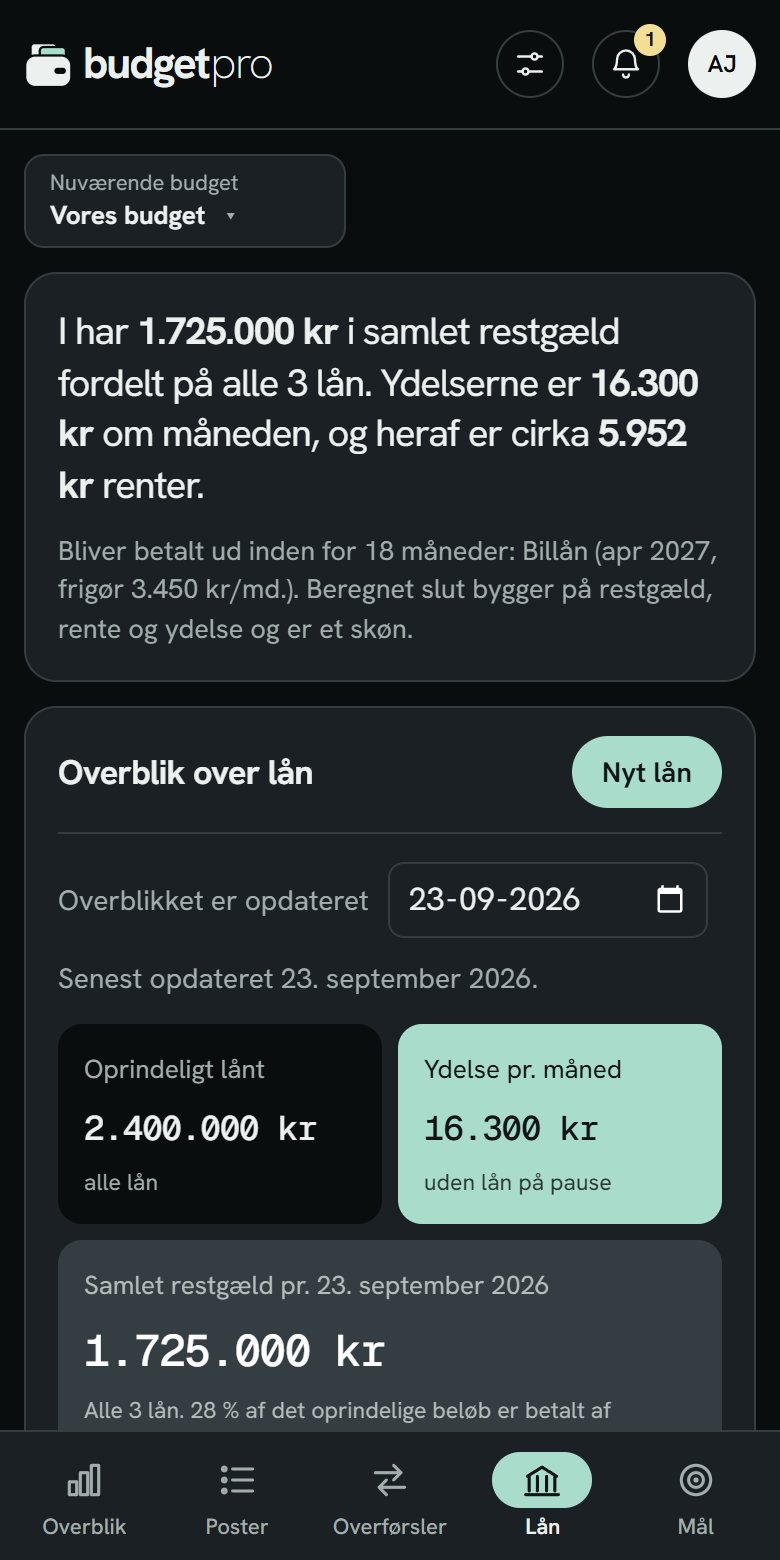
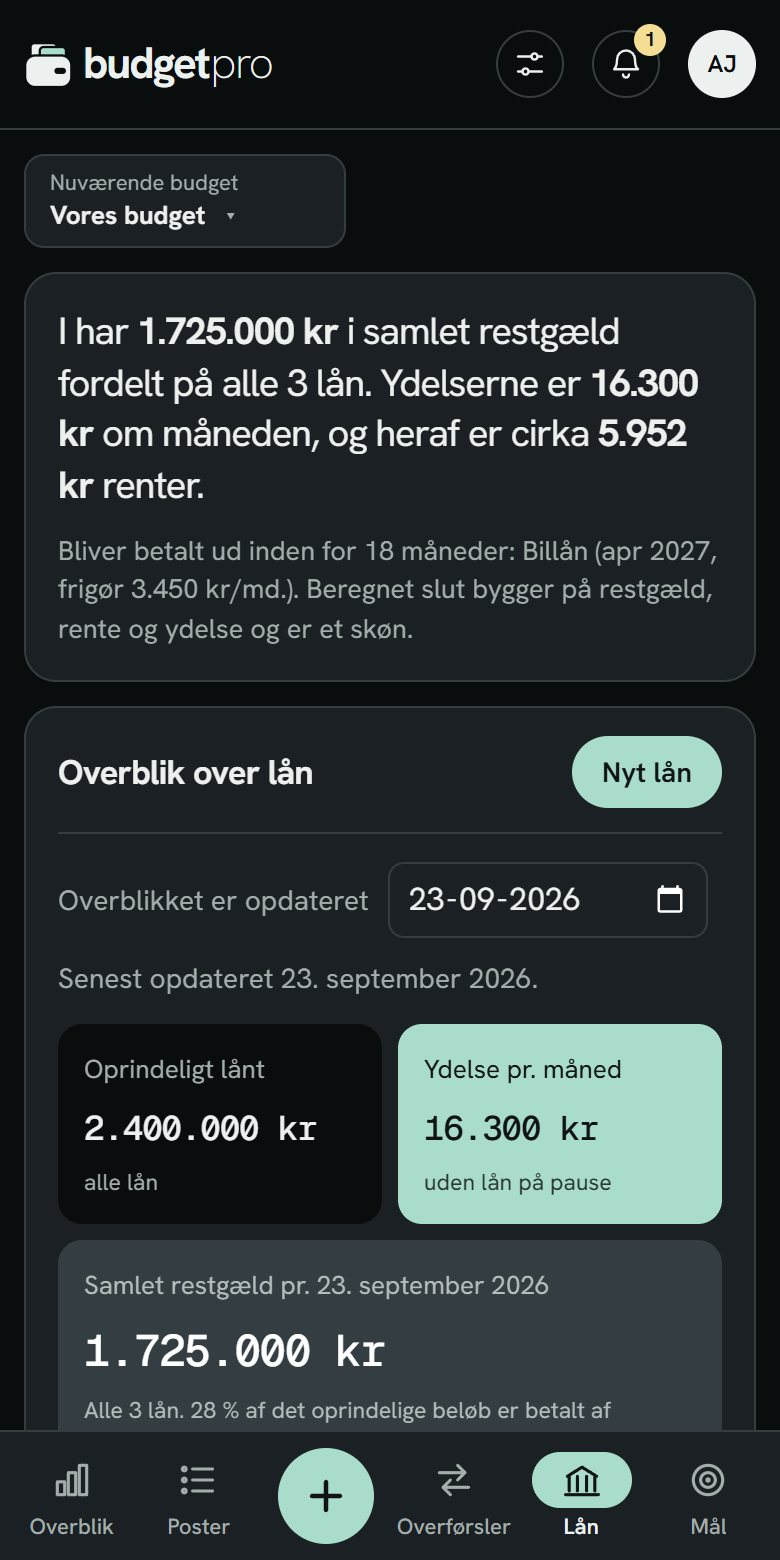
Phones: + in the bottom bar, filter chips, calm folded category rows
Ideas from Vinted: the round + sits in the middle of the bottom bar and opens a new post on every
page, the post filters are a sideways row of chips (a set filter is dark), and a folded category
shows only name, count and sum. Shots remade; the films wait until the changes are done.

Changed region(s): [[0.2154, 0.9231, 0.8308, 1.0], [0.0308, 0.9231, 0.1538, 0.9846], [0.8615, 0.9231, 0.9231, 0.9846]]

diff --git a/public/budgetr-app/index.html b/public/budgetr-app/index.html
@@ -352,6 +352,7 @@ tr.paused td{color:var(--ink3)}
 .split{display:flex;gap:10px;align-items:center;flex-wrap:wrap;font-size:14px;color:var(--ink2)}
 .split input[type=number]{width:70px}
 .filters{display:flex;flex-wrap:wrap;gap:8px;margin-bottom:12px}
+.fchips{display:contents}
 .filters select,.filters input{border:1px solid var(--rule);background:var(--card);border-radius:8px;padding:6px 10px;font-size:14px}
 .filters input{min-width:180px}
 /* Search on Poster: matching posts drop down under the field; picking one jumps to its row */
@@ -1154,7 +1155,7 @@ dialog h2,.sethead h2{font-weight:700}
   .navrow .tools{padding:12px 0 0!important}
   .setbtn{display:flex!important}
   .appbar .status{display:none}
-  .mnav{display:grid;grid-template-columns:repeat(5,minmax(0,1fr));position:fixed;left:0;right:0;bottom:0;z-index:40;background:var(--card);border-top:1px solid var(--rule);padding:4px 4px calc(4px + env(safe-area-inset-bottom,0px))}
+  .mnav{display:grid;grid-template-columns:repeat(2,minmax(0,1fr)) 64px repeat(3,minmax(0,1fr));position:fixed;left:0;right:0;bottom:0;z-index:40;background:var(--card);border-top:1px solid var(--rule);padding:4px 4px calc(4px + env(safe-area-inset-bottom,0px))}
   .mnav button{display:flex;flex-direction:column;align-items:center;justify-content:center;gap:3px;min-height:56px;padding:4px 0!important;border:0!important;background:transparent!important;color:var(--ink2)!important;font:500 11px/1.2 var(--font)!important;border-radius:12px!important;-webkit-tap-highlight-color:transparent}
   .mnav svg{box-sizing:content-box;width:22px;height:22px;padding:3px 14px;border-radius:14px;fill:none;stroke:currentColor;stroke-width:1.7;stroke-linecap:round;stroke-linejoin:round;transition:background .15s}
   .mnav button[aria-selected="true"]{color:var(--ink)!important;font-weight:600!important}
@@ -1162,7 +1163,11 @@ dialog h2,.sethead h2{font-weight:700}
   .mnav span{max-width:100%;overflow:hidden;text-overflow:ellipsis;white-space:nowrap}
   .fab{display:flex;align-items:center;justify-content:center;position:fixed;right:16px;bottom:calc(76px + env(safe-area-inset-bottom,0px));z-index:41;width:56px;height:56px;padding:0!important;border:0!important;border-radius:28px!important;background:var(--btn)!important;color:var(--btn-ink)!important;box-shadow:0 6px 18px rgba(16, 20, 21,.28)}
   .fab svg{width:26px;height:26px;fill:none;stroke:currentColor;stroke-width:2.2;stroke-linecap:round}
-  body:not([data-page="budget"]):not([data-page="poster"]) .fab,body[data-nobudget] .fab,body[data-nobudget] .mnav{display:none}
+  body[data-nobudget] .mnav{display:none}
+  /* The + in the middle of the bottom bar (like Vinted's Sælg): a round blæk button that opens a new post on every page. */
+  .mnav .mnew{gap:0}
+  .mnav .mnew svg{width:24px;height:24px;padding:12px;border-radius:50%;background:var(--btn);color:var(--btn-ink);stroke-width:2.2}
+  .mnav .mnew:active svg{transform:scale(.94)}
   .toast{bottom:calc(84px + env(safe-area-inset-bottom,0px))}
   /* Overblik: the card replaces the sentence; the 12-month graph and long hints stay on bigger screens. */
   .msum{display:block;margin:14px 0 4px;padding:16px;border-radius:14px;background:var(--card);border:1px solid var(--rule)}
@@ -1276,7 +1281,13 @@ dialog h2,.sethead h2{font-weight:700}
   .person .kv.pend{display:flex;justify-content:space-between;gap:12px;margin-top:10px;padding-top:10px;border-top:1px solid var(--rule)}
   .pmore{display:block;width:100%;margin-top:12px;min-height:42px;background:var(--card)!important;font-size:14px!important}
   /* Poster: search across, the three filters on one row, each category as its own block with a grey head. */
-  .filters{display:grid;grid-template-columns:repeat(3,minmax(0,1fr));gap:8px}
+  .filters{display:grid;grid-template-columns:minmax(0,1fr);gap:8px}
+  /* The filters are chips in one row that scrolls sideways, each as wide as its text (like Vinted's filter row). */
+  .filters .fchips{display:flex;gap:8px;overflow-x:auto;scrollbar-width:none;margin:0 -16px;padding:0 16px}
+  .filters .fchips::-webkit-scrollbar{display:none}
+  .filters .fchips select{flex:0 0 auto;width:auto!important;field-sizing:content;border-radius:999px!important;padding:8px 14px!important;font:500 14px var(--font)!important}
+  tr.cat:has(.pfold[aria-expanded="false"]) :is(.addp,.catdots),tr.grp:has(.pfold[aria-expanded="false"]) .addp,tr.grp .catbtn{display:none!important}
+  .filters .fchips select.on{background:var(--btn)!important;color:var(--btn-ink)!important;border-color:var(--btn)!important}
   .filters .qbox{grid-column:1/-1;order:-1}
   .filters .ptools{grid-column:1/-1}
   .filters select{min-width:0;width:100%;padding:8px 6px;text-overflow:ellipsis}
@@ -1382,10 +1393,10 @@ dialog h2,.sethead h2{font-weight:700}
   <div class="tourcard" id="tourCard" role="dialog" aria-modal="true" aria-labelledby="tourTitle" tabindex="-1"><h2 id="tourTitle"></h2><p id="tourTxt"></p>
     <div class="tourfoot"><span class="tourn" id="tourN"></span><button type="button" id="tourBack">Tilbage</button><button type="button" class="primary" id="tourNext">Næste</button></div></div></div>
 <!-- Phones: the pages as an app bar at the bottom, and a round button for a new post. -->
-<button type="button" class="fab" id="btnNewM" aria-label="Ny budgetpost"><svg viewBox="0 0 24 24" aria-hidden="true"><path d="M12 5v14M5 12h14"/></svg></button>
 <nav class="mnav" aria-label="Sider">
   <button type="button" data-page="budget" aria-selected="true"><svg viewBox="0 0 24 24" aria-hidden="true"><path d="M4 13h4v7H4zM10 8h4v12h-4zM16 4h4v16h-4z"/></svg><span>Overblik</span></button>
   <button type="button" data-page="poster" aria-selected="false"><svg viewBox="0 0 24 24" aria-hidden="true"><path d="M9 6h11M9 12h11M9 18h11"/><circle cx="4.5" cy="6" r="1"/><circle cx="4.5" cy="12" r="1"/><circle cx="4.5" cy="18" r="1"/></svg><span>Poster</span></button>
+  <button type="button" class="mnew" id="btnNewM" aria-label="Ny budgetpost" title="Ny budgetpost"><svg viewBox="0 0 24 24" aria-hidden="true"><path d="M12 5v14M5 12h14"/></svg></button>
   <button type="button" data-page="overf" aria-selected="false"><svg viewBox="0 0 24 24" aria-hidden="true"><path d="M4 8h14M14 4l4 4-4 4M20 16H6M10 12l-4 4 4 4"/></svg><span>Overførsler</span></button>
   <button type="button" data-page="laan" aria-selected="false"><svg viewBox="0 0 24 24" aria-hidden="true"><path d="M4 10 12 5l8 5M5 10v8M19 10v8M9.5 10v8M14.5 10v8M3 20h18"/></svg><span>Lån</span></button>
   <button type="button" data-page="maal" aria-selected="false"><svg viewBox="0 0 24 24" aria-hidden="true"><circle cx="12" cy="12" r="8"/><circle cx="12" cy="12" r="4"/><circle cx="12" cy="12" r=".6"/></svg><span>Mål</span></button>
@@ -2142,10 +2153,10 @@ function render(){
   // poster (own tab). hTop is the overview so far; the posts page starts with the scenario bar only.
   const hTop=h; h=scBarHtml(true)+startInfo(true);
   h+=`<section><div class="sechead"><h2>Poster</h2><span class="hint">Beløb omregnet til ${per()}. Overførsler mellem konti står under <button type="button" class="ghost" data-goto="overf" style="padding:0;color:var(--pine);text-decoration:underline">Faste overførsler</button>.</span></div>
-  <div class="filters">
+  <div class="filters"><div class="fchips">
     <select id="flType" aria-label="Filtrér type"><option value="alle">Alle typer</option><option value="udgift">Udgifter</option><option value="indtaegt">Indtægter</option><option value="tjek">Skal tjekkes</option><option value="steget">Steget mindst ${devPct()} %</option></select>
     <select id="flAcct" aria-label="Filtrér konto"><option value="alle">Alle konti</option>${S.accounts.map(a=>`<option value="${a.id}">${esc(a.name)}</option>`).join('')}<option value="">Ikke placeret</option></select>
-    <select id="flPayer" aria-label="Filtrér betaler"><option value="alle">Alle betalere</option><option value="${FAELLES}">Fælles</option>${S.persons.map(p=>`<option value="${p.id}">${esc(p.name)}</option>`).join('')}</select>
+    <select id="flPayer" aria-label="Filtrér betaler"><option value="alle">Alle betalere</option><option value="${FAELLES}">Fælles</option>${S.persons.map(p=>`<option value="${p.id}">${esc(p.name)}</option>`).join('')}</select></div>
     <div class="qbox"><input id="flQ" type="search" placeholder="Søg og hop til en post" aria-label="Søg i posterne" role="combobox" aria-autocomplete="list" aria-expanded="false" aria-controls="flQList" autocomplete="off" value="${esc(F.q)}"><div class="qlist" id="flQList" role="listbox" aria-label="Poster der matcher" hidden></div></div>
     <div class="ptools"><button type="button" class="tbtn" id="btnFoldPosts">${foldAllHtml()}</button><button type="button" class="tbtn" id="btnCats" title="Opret, omdøb, sortér og slet udgiftskategorier"><svg viewBox="0 0 16 16" aria-hidden="true"><path d="M2.5 2.5h5.2l5.8 5.8-5.2 5.2-5.8-5.8z"/><circle cx="5.4" cy="5.4" r="1.1"/></svg><span>Rediger kategorier</span></button></div>
   </div>
@@ -2912,7 +2923,7 @@ $('btnHelpClose').onclick=()=>$('dlgHelp').close();
   addEventListener('popstate',()=>{if(skip){skip--;return}const d=[...document.querySelectorAll('dialog[open]')].filter(x=>x._hbBack).pop();if(d){d._hbBack=false;d.close()}})})();
 /* ---------- Rundtur: where things are, in six stops ---------- */
 // Started from the profile menu. Each stop points at what the user sees: the top tabs and buttons on a wide screen,
-// the bottom bar, the round + and the gear on a phone. A stop whose button isn't shown is skipped.
+// the bottom bar, the round + in it and the gear on a phone. A stop whose button isn't shown is skipped.
 const TOUR=[
   {el:'.tabs,.mnav',t:'Siderne',x:'Overblik viser hele budgettet. Under Budgetposter retter du indtægter og udgifter, og Lån, Overførsler og Mål har hver deres side.'},
   {el:'#btnNew,#btnNewM',t:'Ny budgetpost',x:'Her lægger du en ny indtægt eller udgift ind. Du kan også trykke på en post for at rette den.'},
@@ -3011,8 +3022,10 @@ function qMatches(q){q=q.trim().toLowerCase();if(!q)return [];
   const st=e=>(e.desc||'').toLowerCase().startsWith(q)?0:1;
   return cur().filter(e=>e.type!=='overfoersel'&&!e.removed&&((e.desc||'').toLowerCase().includes(q)||(e.key||'').toLowerCase().includes(q)))
     .sort((a,b)=>((a.type==='udgift'?0:1)-(b.type==='udgift'?0:1))||(st(a)-st(b))||(a.desc||'').localeCompare(b.desc||'','da')).slice(0,12)}
+// A filter that is set shows as a dark chip on phones.
+function flMark(){['flType','flAcct','flPayer'].forEach(id=>{const s=$(id);if(s)s.classList.toggle('on',s.value!=='alle')})}
 function jumpPost(id){const e=cur().find(x=>x.id===id);if(!e||!$('tbody'))return;
-  F.type=F.account=F.payer='alle';F.q='';$('flType').value=F.type;$('flAcct').value=F.account;$('flPayer').value=F.payer;$('flQ').value='';
+  F.type=F.account=F.payer='alle';F.q='';$('flType').value=F.type;$('flAcct').value=F.account;$('flPayer').value=F.payer;$('flQ').value='';flMark();
   PFOLD['g:'+e.type]=false;if(e.type==='udgift')PFOLD['c:'+postCat(e)]=false;savePFold();
   $('tbody').innerHTML=rowsHtml();if($('btnFoldPosts'))$('btnFoldPosts').innerHTML=foldAllHtml();
   const tr=$('tbody').querySelector(`tr.row[data-id="${CSS.escape(id)}"]`);if(!tr)return;
@@ -3183,6 +3196,7 @@ function bindMain(){
   $('flType').onchange=e=>{F.type=e.target.value;$('tbody').innerHTML=rowsHtml()};
   $('flAcct').onchange=e=>{F.account=e.target.value;$('tbody').innerHTML=rowsHtml()};
   $('flPayer').onchange=e=>{F.payer=e.target.value;$('tbody').innerHTML=rowsHtml()};
+  flMark();['flType','flAcct','flPayer'].forEach(id=>$(id).addEventListener('change',flMark));
   bindPostSearch();
   const openRow=id=>id.startsWith('g_')?openGoal(id.slice(2)):openEntry(id);
   document.querySelectorAll('tr[data-devid]').forEach(tr=>{tr.onclick=()=>openEntry(tr.dataset.devid);tr.onkeydown=e=>{if(e.key==='Enter')openEntry(tr.dataset.devid)}});

diff --git a/lib/media-version.ts b/lib/media-version.ts
@@ -4,7 +4,7 @@
  * keep showing the old ones; the pages add `?v=<MEDIA_V>` to their URLs. Raise it after remaking them.
  * next.config.ts allows exactly this query on those paths (images.localPatterns).
  */
-export const MEDIA_V = "8";
+export const MEDIA_V = "9";
 
 /** A public path with the media version appended. */
 export const media = (path: string) => `${path}?v=${MEDIA_V}`;

diff --git a/CLAUDE.md b/CLAUDE.md
@@ -7,7 +7,7 @@ Language: code and comments in English; UI text in Danish (du-form, calm, no exc
 ## Architecture
 
 - `/` landing page (Next.js, `components/landing/`), `/login` test-user login (Next.js), `/app` = the ORIGINAL budgetr app from the prototype, a single vanilla-JS file at `public/budgetr-app/index.html` (rewritten in `next.config.ts`). The user chose to keep that app 1:1 instead of a React rebuild; change features by editing that file directly, and keep its behaviour and look.
-- On phones (≤760 px) the app works like an app: the pages sit in a fixed bar at the bottom (`.mnav`, same `data-page` buttons as the top tabs), a round + opens a new post (`.fab`, Overblik and Poster only), Indstillinger is the gear in the top bar (`.setbtn`), Overblik starts with Månedstjek (when due) or Rådighedsbeløb, shows the key-figure card (`mobSumHtml()`) in its last section, "Hvad er der tilbage", and leaves out the 12-month graph, and the post editor (which has a close cross, `#dlgX`, on every screen – it also takes the dialog's first focus, so the type field never opens by itself) fills the screen with fixed buttons and the main fields first (the rest behind "Flere felter", `moreFields()`). Every section is one card with its heading inside (no card on a card: inner parts become grey tiles or rows with a line), the person cards and goals show their result with the details behind a button (`moreBtn()`/`PDET`), the explanation under a page's sentence is cut to three lines with "Vis mere" (`clampHero()`), each post category is its own block and starts folded (Indtægter too; `pfOn()` – `PFOLD` keeps what was opened, so a missing key means folded on phones; the whole heading row folds), the back gesture closes an open dialog instead of leaving the app (`showModal` adds a history entry, closing takes it away), loans are small cards, and Pengestrømme and the goal chart are left out. A new page needs a button in both `.tabs` and `.mnav`. JS must select page buttons as `button[data-page]`: `<body data-page>` (for CSS) also carries the attribute, and once it matched, every click re-rendered the page and jumped to the top. "Rundtur" in the profile menu (`openTour()`, stops in `TOUR`) dims the page and points at six things in turn – the pages, new post, scenarios/drafts, tasks, settings, the menu – using whichever button is shown (top tabs or `.mnav`, `#btnNew` or `.fab`); when one of them moves or a main feature gets its own button, update `TOUR`.
+- On phones (≤760 px) the app works like an app: the pages sit in a fixed bar at the bottom (`.mnav`, same `data-page` buttons as the top tabs), a round blæk + in the middle of that bar opens a new post on every page (`#btnNewM.mnew`, like Vinted's Sælg – it no longer floats over the content), Indstillinger is the gear in the top bar (`.setbtn`), Overblik starts with Månedstjek (when due) or Rådighedsbeløb, shows the key-figure card (`mobSumHtml()`) in its last section, "Hvad er der tilbage", and leaves out the 12-month graph, and the post editor (which has a close cross, `#dlgX`, on every screen – it also takes the dialog's first focus, so the type field never opens by itself) fills the screen with fixed buttons and the main fields first (the rest behind "Flere felter", `moreFields()`). Every section is one card with its heading inside (no card on a card: inner parts become grey tiles or rows with a line), the person cards and goals show their result with the details behind a button (`moreBtn()`/`PDET`), the explanation under a page's sentence is cut to three lines with "Vis mere" (`clampHero()`), the post filters are a row of chips that scrolls sideways (`.fchips`, a set filter is a dark chip, `flMark()`), each post category is its own block and starts folded (a folded row shows only name, count and sum – its + and ··· come when opened) (Indtægter too; `pfOn()` – `PFOLD` keeps what was opened, so a missing key means folded on phones; the whole heading row folds), the back gesture closes an open dialog instead of leaving the app (`showModal` adds a history entry, closing takes it away), loans are small cards, and Pengestrømme and the goal chart are left out. A new page needs a button in both `.tabs` and `.mnav`. JS must select page buttons as `button[data-page]`: `<body data-page>` (for CSS) also carries the attribute, and once it matched, every click re-rendered the page and jumped to the top. "Rundtur" in the profile menu (`openTour()`, stops in `TOUR`) dims the page and points at six things in turn – the pages, new post, scenarios/drafts, tasks, settings, the menu – using whichever button is shown (top tabs or `.mnav`, `#btnNew` or `#btnNewM`); when one of them moves or a main feature gets its own button, update `TOUR`.
 - The app's fonts (Geist, Geist Mono, Hanken Grotesk) are served from `public/budgetr-app/fonts/` – never load them from Google again (that sends the visitor's IP to Google without consent). Indstillinger > Din bruger lets the primary e-mail delete the account (`DELETE /api/account/[user]` with `{confirm:"SLET"}` → `deleteAccount()` in `lib/accounts.ts`: account, budget, backups, profile, activity, send counter). When something new is stored per account, delete it there too and update `/privatliv`.
 - Vendor libs for the app live in `public/budgetr-app/vendor/` (jsPDF, AutoTable, xlsx-js-style = SheetJS 0.18.5 with cell styles, `pdfjs/` = pdf.js 6.3.289 legacy build for reading PDF statements, loaded on first use). Don't edit them.
 - Draft budgets (Kladder): whole budgets stored inside the primary one as `drafts[]` (`{id,name,created,mode,files,data}`, one level deep). While a draft is open, `S` is the draft's data and `ROOT` the primary budget, so all pages work on the draft; saving and the backup always use `rootS()`. The draft import reads several CSV/Excel/PDF statements at once, pairs transfers between the uploaded accounts, and stores only the chosen entries (never the transactions). It also reads budgets made in Excel/CSV (`budgetRows()`: months Jan–Dec or Q1–Q4 as columns, amount + frequency, one row per month and post, or one column per person; all sheets; totals skipped) and offers their posts as they stand; a file that is a budget is never read as a statement. "Sæt som primært budget" swaps them and keeps the old budget as a draft (`mode:'prev'`). The guide "Start nyt budget" starts by asking how to begin (`WS_START`: empty, from statements or from existing budgets; the two file choices open the draft import right after the budget is made, `openDImp(kind)`), and it also saves its result as a draft when a budget already exists; it only becomes the primary budget on a first visit.
